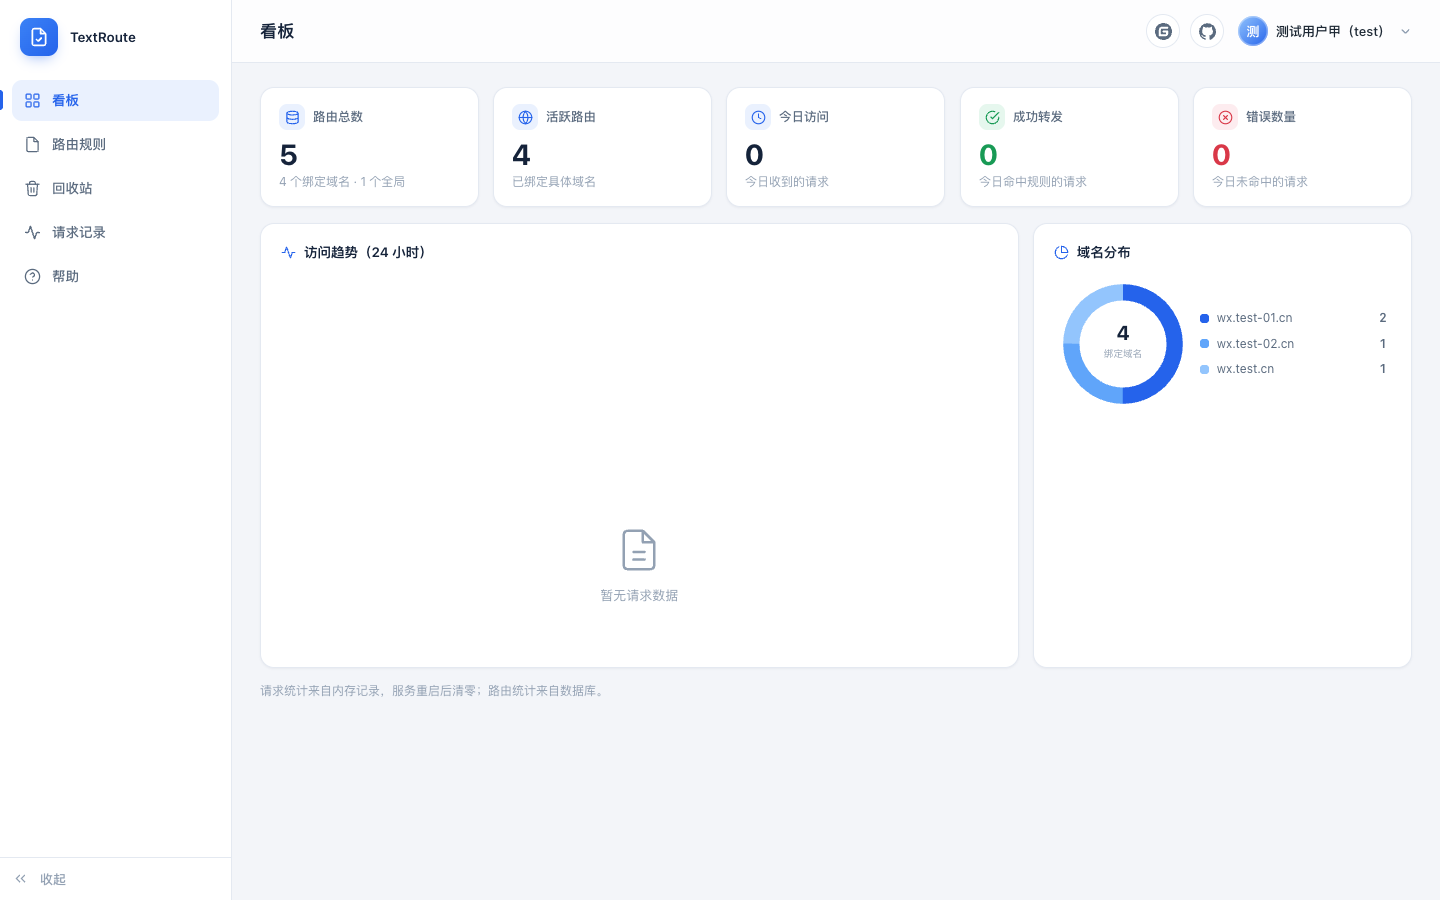
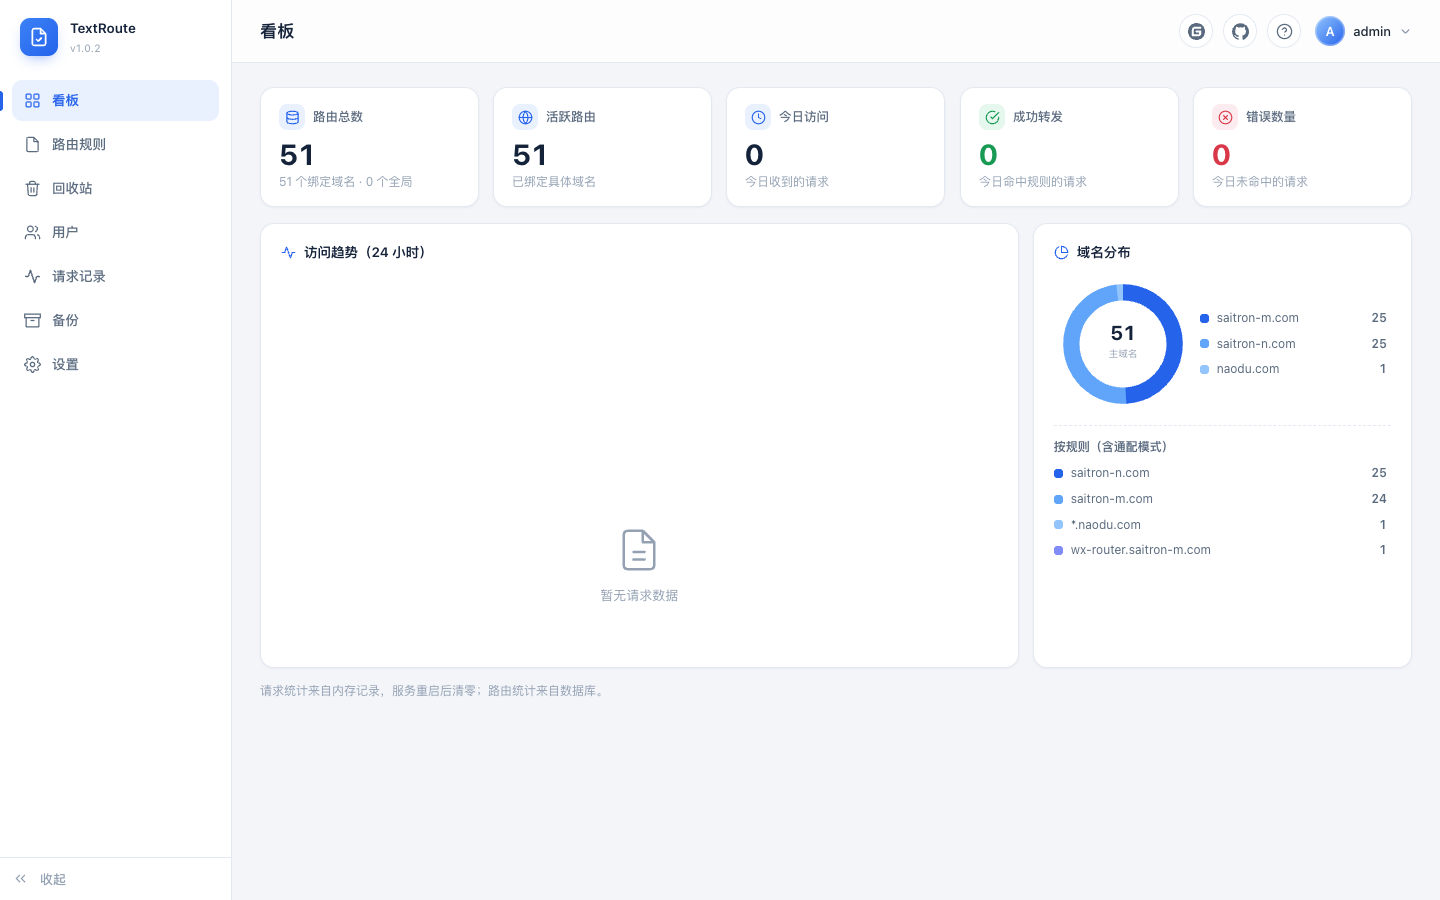
feat: 看板域名分布按主域名/规则两种口径，规则对话框提示收进字段列
- stats 接口 byDomain 拆为 byMainDomain（通配标签剥掉后聚合）与 byRuleHost（按原样含通配），com.cn 等双段后缀取三段主域
- 看板环形图改为主域名口径，下方新增按规则列表，*.naodu.com 等通配规则不再被隐藏
- 规则对话框两条提示移入域名、优先级字段下方，减少占行

diff --git a/test/stats.test.js b/test/stats.test.js
@@ -6,7 +6,7 @@ import { openDb } from '../src/db.js';
 import { createFile } from '../src/repo/rules.js';
 import { createUser } from '../src/repo/users.js';
 import { createRequestLog } from '../src/requestlog.js';
-import { computeStats } from '../src/stats.js';
+import { computeStats, mainDomain } from '../src/stats.js';
 import { createApp } from '../src/app.js';
 
 let dir, db;
@@ -19,8 +19,31 @@ afterEach(() => {
   rmSync(dir, { recursive: true, force: true });
 });
 
+describe('mainDomain', () => {
+  it('常规域名取最后两段', () => {
+    expect(mainDomain('saitron-m.com')).toBe('saitron-m.com');
+    expect(mainDomain('wx-router.saitron-m.com')).toBe('saitron-m.com');
+  });
+
+  it('剥掉通配标签后再取主域', () => {
+    expect(mainDomain('*.naodu.com')).toBe('naodu.com');
+    expect(mainDomain('*.**.naodu.com')).toBe('naodu.com');
+    expect(mainDomain('a.*.com')).toBe('a.com');
+  });
+
+  it('双段后缀取三段', () => {
+    expect(mainDomain('a.com.cn')).toBe('a.com.cn');
+    expect(mainDomain('sub.b.com.cn')).toBe('b.com.cn');
+  });
+
+  it('纯通配无法归类返回空串', () => {
+    expect(mainDomain('*.**')).toBe('');
+    expect(mainDomain('*')).toBe('');
+  });
+});
+
 describe('computeStats', () => {
-  it('统计文件总数、绑定/全局数与域名分布', () => {
+  it('统计文件总数、绑定/全局数与两种域名口径', () => {
     createFile(db, { host: 'a.com', filename: 'x.txt', content: 'v', userId: 1 });
     createFile(db, { host: 'a.com', filename: 'y.txt', content: 'v', userId: 1 });
     createFile(db, { host: '*', filename: 'g.txt', content: 'v', userId: 1 });
@@ -29,10 +52,11 @@ describe('computeStats', () => {
     expect(s.files.bound).toBe(2);
     expect(s.files.global).toBe(1);
     expect(s.files.domains).toBe(1);
-    expect(s.files.byDomain).toEqual([{ host: 'a.com', count: 2 }]);
+    expect(s.files.byMainDomain).toEqual([{ host: 'a.com', count: 2 }]);
+    expect(s.files.byRuleHost).toEqual([{ host: 'a.com', count: 2 }]);
   });
 
-  it('模式记录计入绑定数但不出现在域名分布里', () => {
+  it('模式记录计入绑定数，按规则视图不隐藏、主域名视图聚合', () => {
     createFile(db, { host: '*.a.com', filename: 'p.txt', content: 'v', userId: 1 });
     createFile(db, { host: '*', filename: 'g.txt', content: 'v', userId: 1 });
     createFile(db, { host: 'a.com', filename: 'x.txt', content: 'v', userId: 1 });
@@ -40,15 +64,48 @@ describe('computeStats', () => {
     expect(s.files.total).toBe(3);
     expect(s.files.global).toBe(1);
     expect(s.files.bound).toBe(2);
-    expect(s.files.byDomain).toEqual([{ host: 'a.com', count: 1 }]);
+    expect(s.files.byRuleHost).toEqual([
+      { host: '*.a.com', count: 1 },
+      { host: 'a.com', count: 1 },
+    ]);
+    expect(s.files.byMainDomain).toEqual([{ host: 'a.com', count: 2 }]);
   });
 
-  it('域名分布按数量降序', () => {
+  it('按主域名合并子域名，按规则保持分开', () => {
+    createFile(db, { host: 'wx-router.saitron-m.com', filename: 'x.txt', content: 'v', userId: 1 });
+    createFile(db, { host: 'saitron-m.com', filename: 'y.txt', content: 'v', userId: 1 });
+    createFile(db, { host: 'saitron-m.com', filename: 'z.txt', content: 'v', userId: 1 });
+    const s = computeStats(db, createRequestLog());
+    expect(s.files.byMainDomain).toEqual([{ host: 'saitron-m.com', count: 3 }]);
+    expect(s.files.byRuleHost).toEqual([
+      { host: 'saitron-m.com', count: 2 },
+      { host: 'wx-router.saitron-m.com', count: 1 },
+    ]);
+  });
+
+  it('com.cn 双段后缀主域互不混淆', () => {
+    createFile(db, { host: 'a.com.cn', filename: 'x.txt', content: 'v', userId: 1 });
+    createFile(db, { host: 'sub.b.com.cn', filename: 'y.txt', content: 'v', userId: 1 });
+    const s = computeStats(db, createRequestLog());
+    expect(s.files.byMainDomain).toEqual([
+      { host: 'a.com.cn', count: 1 },
+      { host: 'b.com.cn', count: 1 },
+    ]);
+  });
+
+  it('纯通配模式不出现在主域名视图，按规则仍显示', () => {
+    createFile(db, { host: '*.**', filename: 'x.txt', content: 'v', userId: 1 });
+    const s = computeStats(db, createRequestLog());
+    expect(s.files.byMainDomain).toEqual([]);
+    expect(s.files.byRuleHost).toEqual([{ host: '*.**', count: 1 }]);
+  });
+
+  it('按主域名数量降序', () => {
     createFile(db, { host: 'a.com', filename: 'x.txt', content: 'v', userId: 1 });
     createFile(db, { host: 'b.com', filename: 'y.txt', content: 'v', userId: 1 });
     createFile(db, { host: 'b.com', filename: 'z.txt', content: 'v', userId: 1 });
     const s = computeStats(db, createRequestLog());
-    expect(s.files.byDomain.map((d) => d.host)).toEqual(['b.com', 'a.com']);
+    expect(s.files.byMainDomain.map((d) => d.host)).toEqual(['b.com', 'a.com']);
   });
 
   it('请求统计区分命中与未命中', () => {

diff --git a/public/dashboard.js b/public/dashboard.js
@@ -13,7 +13,8 @@ async function loadDashboard() {
     $('#dash-hits').textContent = s.requests.todayHits;
     $('#dash-misses').textContent = s.requests.todayMisses;
     renderTrend(s.requests.byHour);
-    renderDomains(s.files.byDomain);
+    renderMainDomains(s.files.byMainDomain);
+    renderRuleHosts(s.files.byRuleHost);
   } finally {
     // 数据就绪后关闭骨架微光（纯展示）
     panel.classList.add('loaded');
@@ -76,24 +77,24 @@ function renderTrend(hours) {
     ${labels}`;
 }
 
-function renderDomains(rows) {
+// 手工环形图：蓝色系柔和分段
+const COLORS = ['#2563eb', '#60a5fa', '#93c5fd', '#818cf8', '#a5b4fc', '#94a3b8', '#cbd5e1'];
+
+function renderMainDomains(rows) {
   const box = $('#dash-domains');
   if (!rows.length) {
     box.innerHTML = '<p class="empty">暂无绑定域名的记录</p>';
     return;
   }
-  const sorted = [...rows].sort((a, b) => b.count - a.count);
-  const total = sorted.reduce((s, r) => s + r.count, 0);
+  const total = rows.reduce((s, r) => s + r.count, 0);
   if (!total) {
     box.innerHTML = '<p class="empty">暂无绑定域名的记录</p>';
     return;
   }
 
-  // 手工环形图：蓝色系柔和分段
-  const COLORS = ['#2563eb', '#60a5fa', '#93c5fd', '#818cf8', '#a5b4fc', '#94a3b8', '#cbd5e1'];
   const R = 54, C = 2 * Math.PI * R;
   let acc = 0;
-  const segs = sorted.map((r, i) => {
+  const segs = rows.map((r, i) => {
     const frac = r.count / total;
     const seg = `<circle cx="70" cy="70" r="${R}" fill="none"
       stroke="${COLORS[i % COLORS.length]}" stroke-width="17"
@@ -107,21 +108,37 @@ function renderDomains(rows) {
   box.innerHTML = `
     <div class="domain-chart">
       <div class="domain-donut">
-        <svg viewBox="0 0 140 140" width="134" height="134" role="img" aria-label="域名分布环形图">
+        <svg viewBox="0 0 140 140" width="134" height="134" role="img" aria-label="主域名分布环形图">
           <circle cx="70" cy="70" r="${R}" fill="none" stroke="#eef2f8" stroke-width="17"/>
           ${segs}
           <text x="70" y="66" text-anchor="middle" class="donut-total">${total}</text>
-          <text x="70" y="84" text-anchor="middle" class="donut-cap">绑定域名</text>
+          <text x="70" y="84" text-anchor="middle" class="donut-cap">主域名</text>
         </svg>
       </div>
       <div class="domain-legend">
-        ${sorted.map((r, i) => `
+        ${rows.map((r, i) => `
           <div class="domain-row">
             <span class="domain-dot" style="background:${COLORS[i % COLORS.length]}"></span>
             <span class="domain-host mono">${escapeHtml(r.host)}</span>
             <span class="domain-count">${r.count}</span>
           </div>`).join('')}
       </div>
+    </div>`;
+}
+
+// 按规则视图：域名按原样列出（含通配模式），一条不隐藏
+function renderRuleHosts(rows) {
+  const box = $('#dash-rule-hosts');
+  if (!rows.length) return;
+  box.innerHTML = `
+    <h3 class="domain-subtitle">按规则（含通配模式）</h3>
+    <div class="domain-legend">
+      ${rows.map((r, i) => `
+        <div class="domain-row">
+          <span class="domain-dot" style="background:${COLORS[i % COLORS.length]}"></span>
+          <span class="domain-host mono">${escapeHtml(r.host)}</span>
+          <span class="domain-count">${r.count}</span>
+        </div>`).join('')}
     </div>`;
 }
 

diff --git a/src/stats.js b/src/stats.js
@@ -1,5 +1,16 @@
 const HOUR_MS = 3600 * 1000;
 
+// 双段公共后缀（如 com.cn）取三段主域，其余取最后两段；可按需扩展
+const MULTI_LABEL_SUFFIXES = new Set(['com.cn', 'net.cn', 'org.cn', 'gov.cn', 'edu.cn', 'ac.cn']);
+
+// 从规则域名提取主域名：剥掉 * / ** 通配标签后取注册域；纯通配无法归类返回空串
+export function mainDomain(host) {
+  const labels = host.split('.').filter((l) => l !== '*' && l !== '**');
+  if (!labels.length) return '';
+  const n = MULTI_LABEL_SUFFIXES.has(labels.slice(-2).join('.')) ? 3 : 2;
+  return labels.slice(-n).join('.');
+}
+
 function startOfDay(ms) {
   const d = new Date(ms);
   d.setHours(0, 0, 0, 0);
@@ -14,11 +25,26 @@ export function computeStats(db, requestLog) {
   const global = db.prepare(
     "SELECT COUNT(*) AS n FROM verify_files WHERE deleted_at IS NULL AND host = '*'"
   ).get().n;
-  const byDomain = db.prepare(`
+  const hostRows = db.prepare(`
     SELECT host, COUNT(*) AS count FROM verify_files
-    WHERE deleted_at IS NULL AND host != '' AND host NOT LIKE '%*%'
-    GROUP BY host ORDER BY count DESC, host ASC
+    WHERE deleted_at IS NULL AND host != '' AND host != '*'
+    GROUP BY host
   `).all();
+
+  // 按规则统计：域名按原样分组（含通配模式），一条不隐藏
+  const byRuleHost = hostRows
+    .map(({ host, count }) => ({ host, count }))
+    .sort((a, b) => b.count - a.count || a.host.localeCompare(b.host));
+
+  // 按主域名统计：通配标签剥掉后聚合（wx-router.saitron-m.com 并入 saitron-m.com）
+  const main = new Map();
+  for (const { host, count } of hostRows) {
+    const m = mainDomain(host);
+    if (m) main.set(m, (main.get(m) || 0) + count);
+  }
+  const byMainDomain = [...main.entries()]
+    .map(([host, count]) => ({ host, count }))
+    .sort((a, b) => b.count - a.count || a.host.localeCompare(b.host));
 
   const entries = requestLog.list(); // 最新在前
   const now = Date.now();
@@ -41,8 +67,9 @@ export function computeStats(db, requestLog) {
       total,
       bound: total - global,
       global,
-      domains: byDomain.length,
-      byDomain,
+      domains: byMainDomain.length,
+      byMainDomain,
+      byRuleHost,
     },
     requests: {
       total: entries.length,

diff --git a/public/index.html b/public/index.html
@@ -207,6 +207,7 @@
               域名分布
             </h2>
             <div id="dash-domains"></div>
+            <div id="dash-rule-hosts"></div>
           </div>
         </div>
         <p class="hint">请求统计来自内存记录，服务重启后清零；路由统计来自数据库。</p>
@@ -418,14 +419,14 @@
     <div class="form-row">
       <label>域名
         <button type="button" id="btn-host-help" class="btn link" title="查看规则配置说明">?</button>
-        <input name="host" placeholder="精确域名或通配模式：* 单层、** 任意层，如 *.example.com、**.example.com；单独 * 表示所有域名">
+        <input name="host" placeholder="如 *.example.com；单独 * 表示所有域名">
+        <span class="hint" id="host-global-hint" hidden>留空将保存为全局 *（对所有域名生效）</span>
       </label>
       <label>优先级
-        <input name="priority" type="number" min="0" max="1000" step="1" placeholder="0">
+        <input name="priority" type="number" min="0" max="1000" step="1" placeholder="0~1000">
+        <span class="hint">数字越大越优先，多条规则冲突时才需要改（0-1000）</span>
       </label>
     </div>
-    <p class="hint" id="host-global-hint" hidden>将保存为全局 *（对所有域名生效）</p>
-    <p class="hint">数字越大越优先，多条规则冲突时才需要改（0-1000）</p>
     <label>路径
       <input name="filename" required placeholder="路径不限制扩展名，如 MP_verify_xxxxxxxx.txt、apple-app-site-association，可含子目录">
     </label>

diff --git a/public/style.css b/public/style.css
@@ -442,6 +442,8 @@ main { padding: 24px 28px 56px; max-width: 1500px; width: 100%; margin: 0 auto; 
   font-size: 12px; font-weight: 600; color: var(--text-2);
   font-variant-numeric: tabular-nums;
 }
+#dash-rule-hosts { margin-top: 14px; padding-top: 12px; border-top: 1px dashed var(--border); }
+.domain-subtitle { font-size: 12px; font-weight: 600; color: var(--text-2); margin: 0 0 8px; }
 
 /* ============================================================
    工具栏 & 表格卡片
@@ -613,6 +615,8 @@ dialog[open] { animation: dialogIn .24s cubic-bezier(.16, 1, .3, 1); }
 .dialog-form label { gap: 7px; display: block; }
 .dialog-form label > .btn.link { vertical-align: middle; margin-left: 4px; }
 .form-row { display: grid; grid-template-columns: 1fr 150px; gap: 12px; align-items: start; }
+.form-row .hint { display: block; margin-top: 4px; }
+.form-row .hint[hidden] { display: none; }
 #rule-dialog { width: min(560px, calc(100vw - 32px)); }
 .dialog-form input, .dialog-form textarea { padding: 10px 12px; border-radius: 10px; }
 .dialog-message { margin: 0; font-size: 13.5px; line-height: 1.7; color: var(--text-2); }
